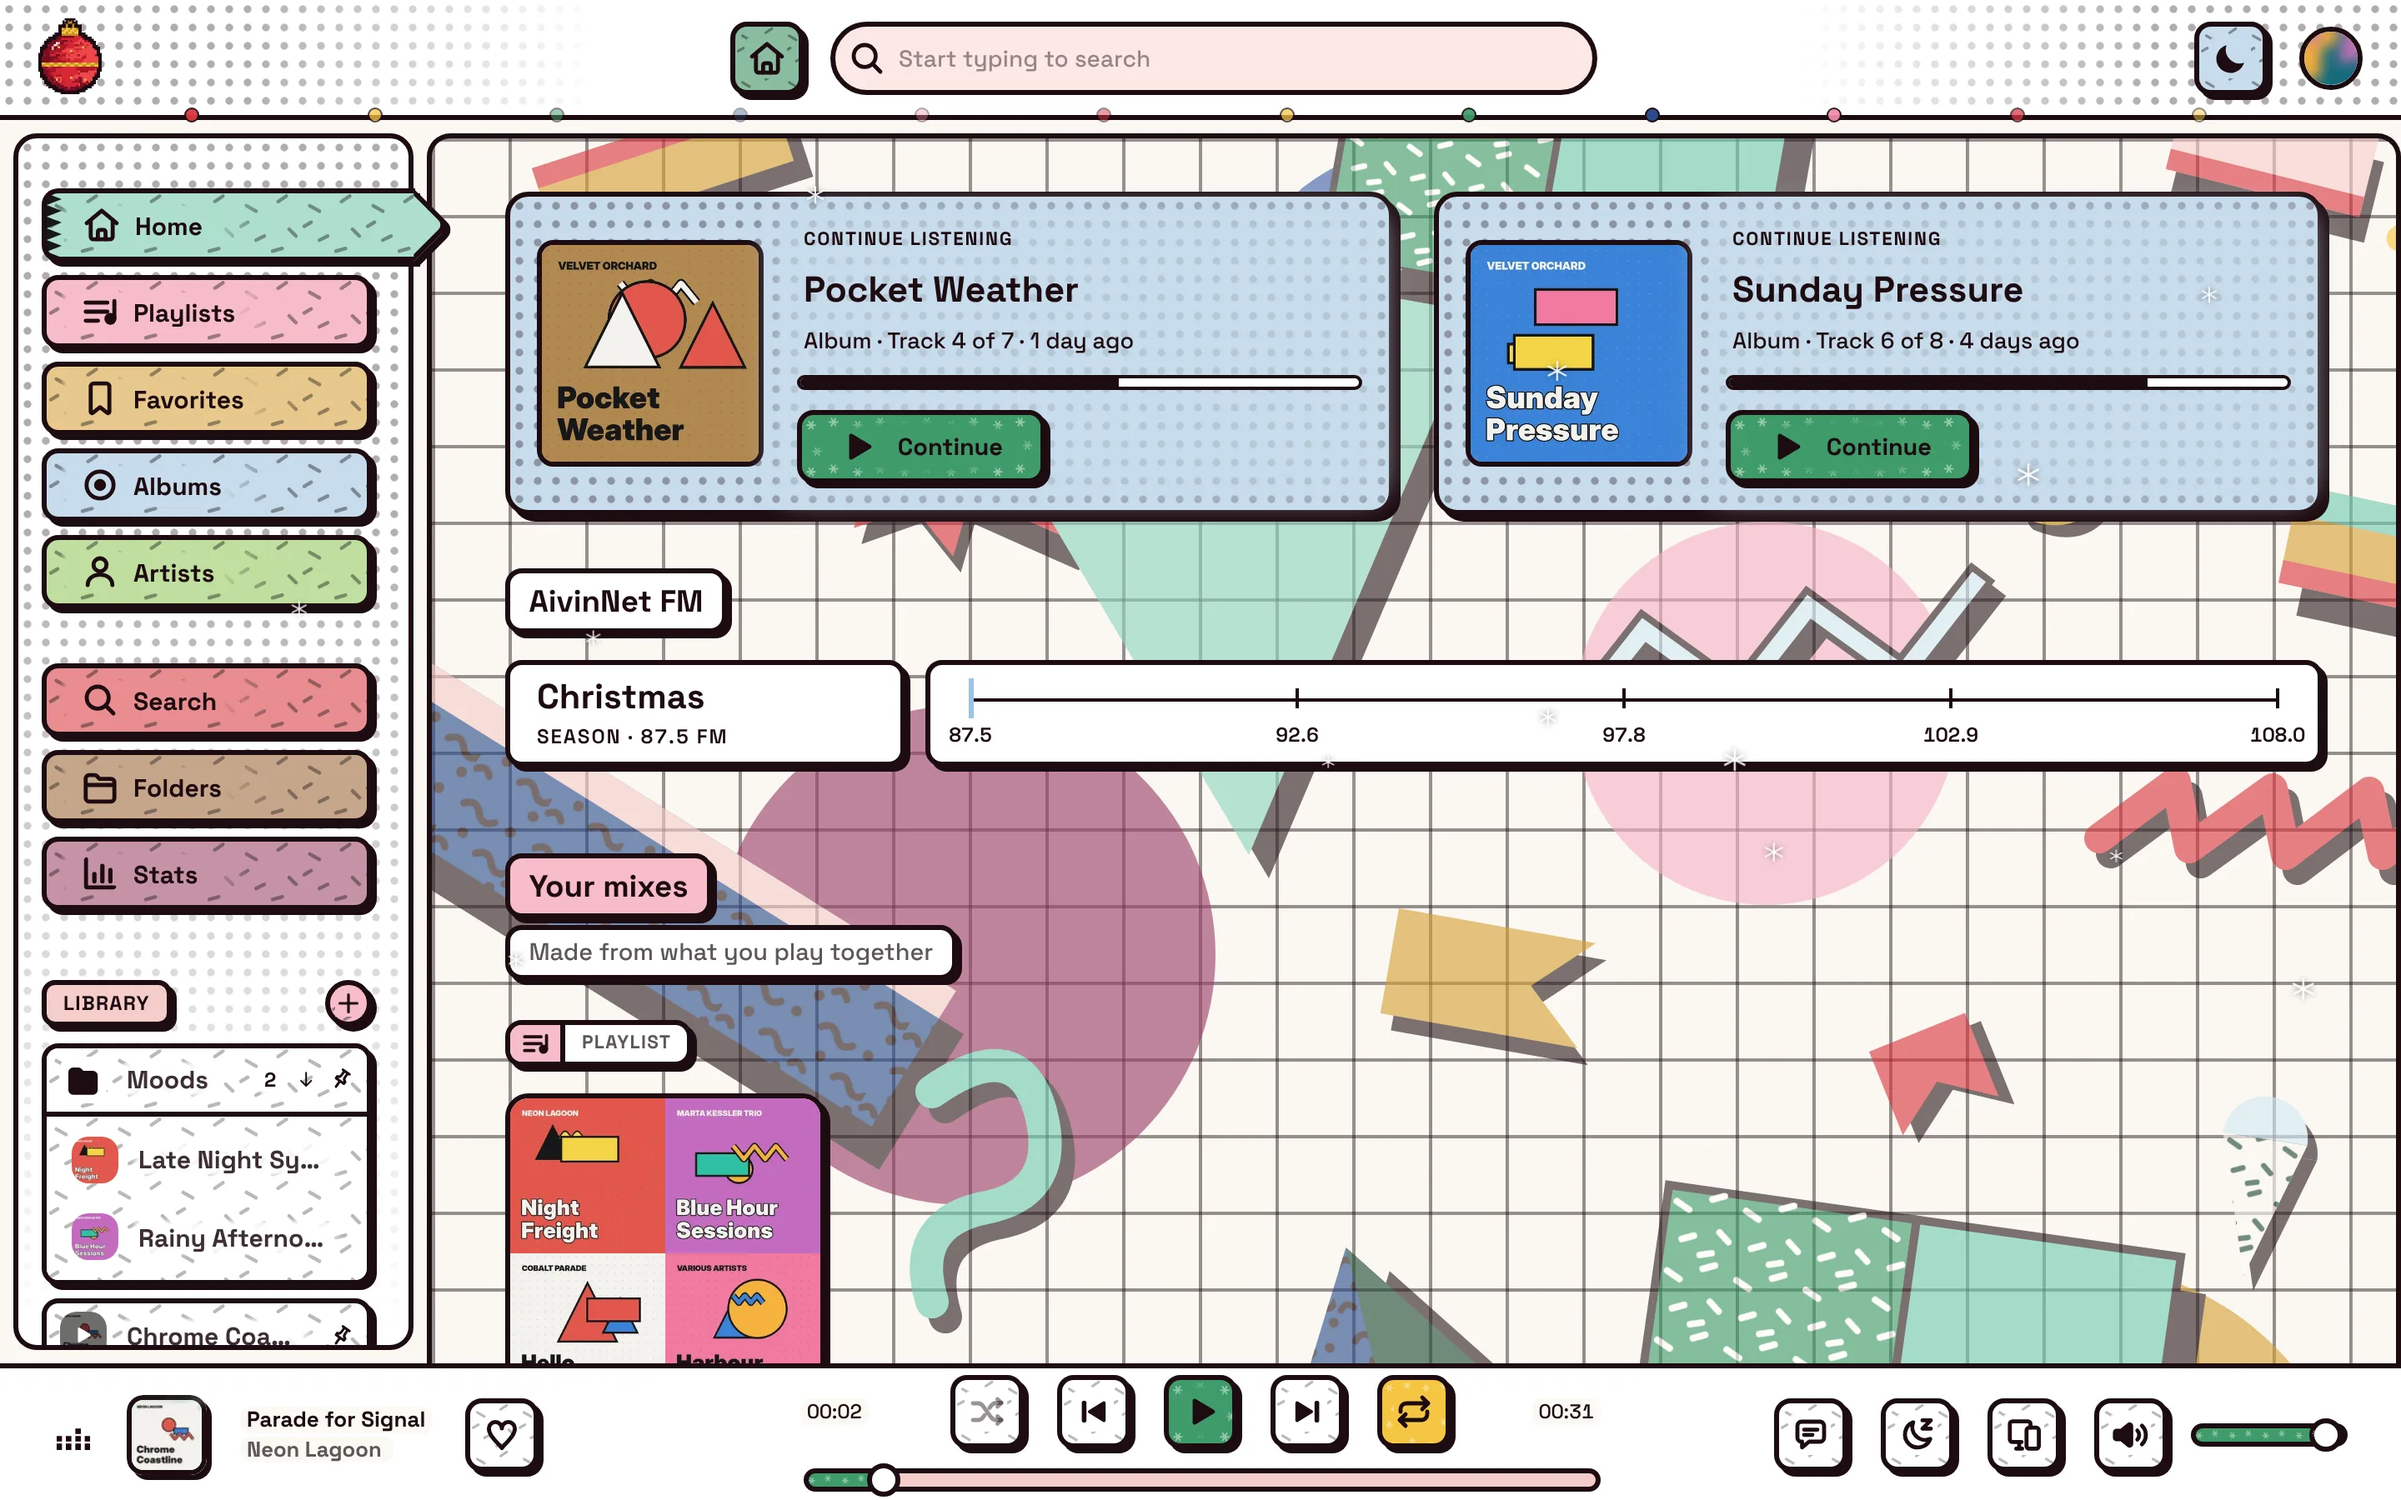
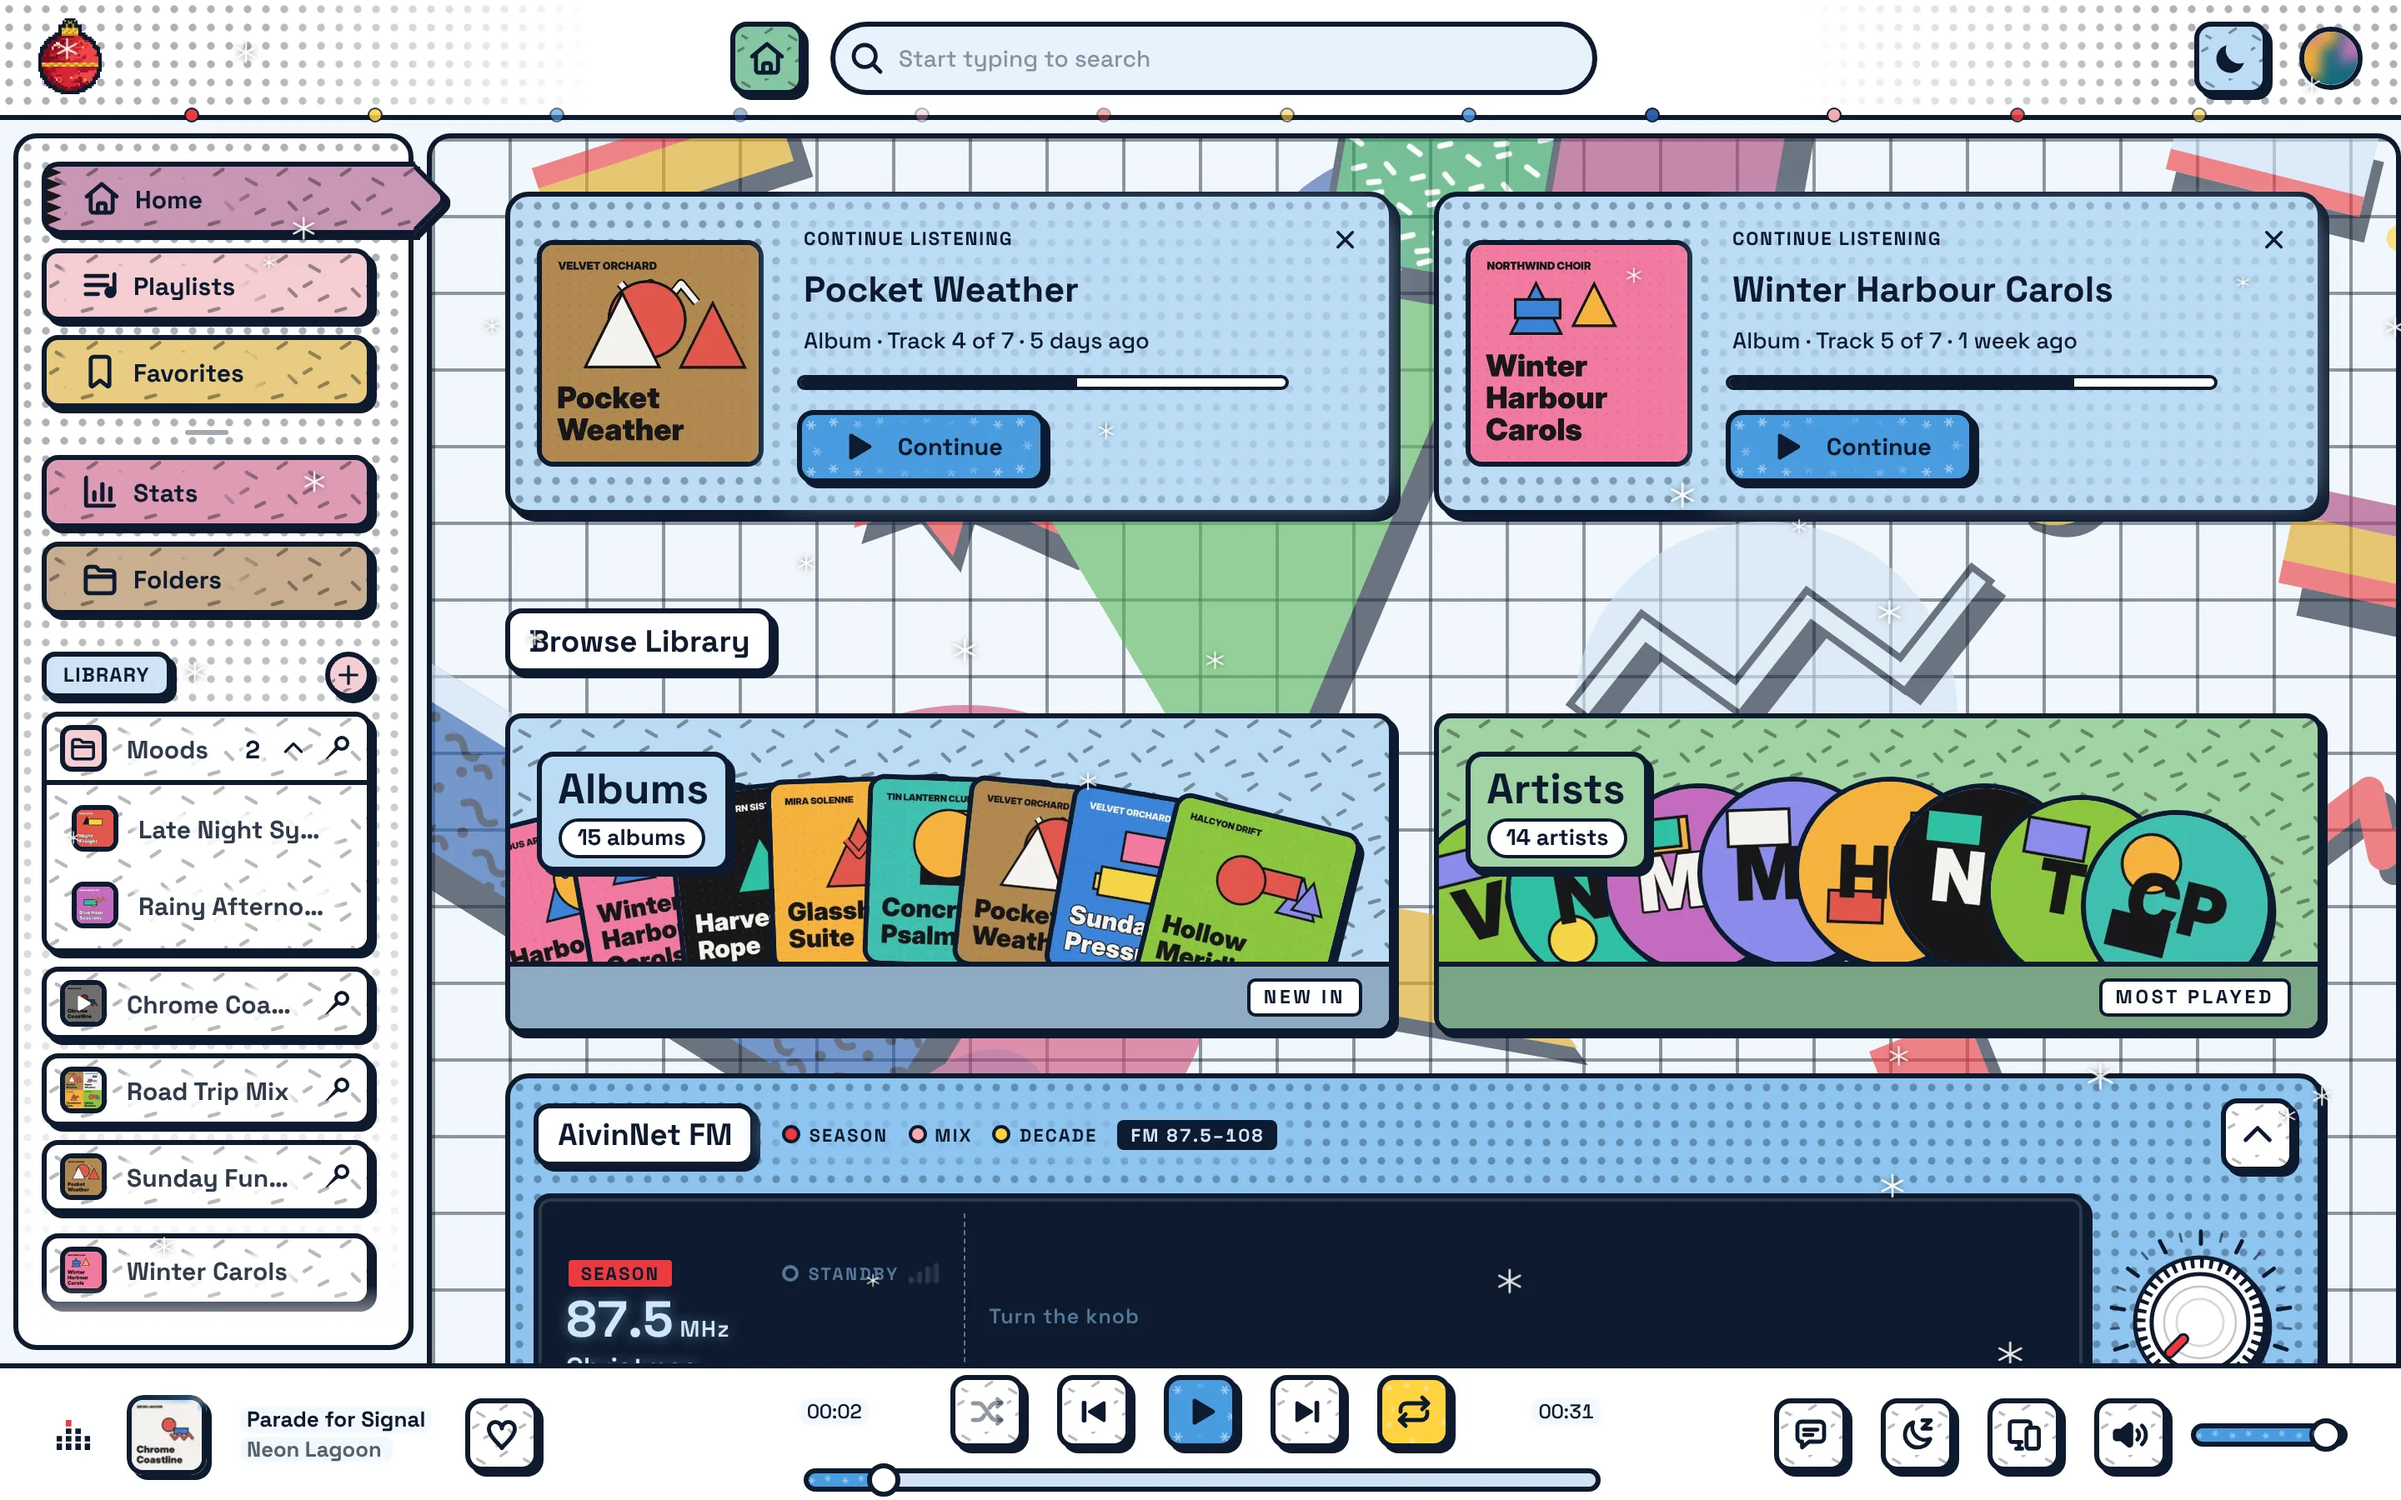
docs: fresh screenshots, README up to date, and a release rule to keep it so (#843)
* chore(demo): seed track ratings, show AivinNet FM, fresh screenshots

The demo seed rates 25 tracks (POST /ratings/set) so "Your top rated" and the
stars have something to show. The screenshot script switches AivinNet FM on
(open on the desktop, the strip on the phone), since it is now off until
switched on. Screenshots, home.png and the demo clip are retaken on the
current master: the slimmer sidebar, Browse Library as record crates, the new
radio, the queue sections.

Claude-Session: https://claude.ai/code/session_01MjKC1nG7y3H6QY8vhRBa3n

* docs: README describes ratings, the radio switch and the queue; releases keep it current

What it does now names ratings (Your top rated, mixes and stations by stars,
the My rating rule, ratings in files), the radio as a switch under
Settings -> Home, Browse Library as record crates, find in long lists, the
queue sections, word-by-word lyrics and Light/Dark/Auto.

The release rule now says: README description up to date with every release,
screenshots only for larger visible changes (user, 2026-11-17).

Claude-Session: https://claude.ai/code/session_01MjKC1nG7y3H6QY8vhRBa3n

---------

diff --git a/scripts/demo/screenshots.js b/scripts/demo/screenshots.js
@@ -43,6 +43,19 @@ async function open(browser, { phone = false, dark = false, date = PLAIN_DATE } 
     })
     const login = await context.request.post(`${BASE}/auth/login`, { data: { username: 'admin', password: PASSWORD } })
     if (!login.ok()) throw new Error(`login failed: ${login.status()}`)
+    // AivinNet FM is off until switched on (Settings → Home, per device); the shots show it,
+    // open on the desktop and folded to its strip on the phone. The settings store is
+    // persisted under "settings" and hydrated by $patch, so these two keys are enough.
+    await context.addInitScript((open) => {
+        try {
+            const stored = JSON.parse(localStorage.getItem('settings') || '{}')
+            if (stored.show_radio === undefined) {
+                localStorage.setItem('settings', JSON.stringify({ ...stored, show_radio: true, radio_open: open }))
+            }
+        } catch {
+            // no storage: the shots go without the radio
+        }
+    }, !phone)
     const page = await context.newPage()
     await page.clock.setFixedTime(new Date(date))
     return { context, page }

diff --git a/scripts/demo/seed.py b/scripts/demo/seed.py
@@ -11,7 +11,8 @@ What it does, in order:
   2. adds the music folder as a root dir (the server scans it) and waits for the albums;
   3. creates playlists (one inside a folder), pins 2 playlists and 1 album, favourites
      10 tracks, 3 albums and 2 artists;
-  4. writes ~10 weeks of plays through the real `POST /logger/track/log` endpoint, plus
+  4. rates 25 tracks 1 to 5 stars through the real `POST /ratings/set` endpoint;
+  5. writes ~10 weeks of plays through the real `POST /logger/track/log` endpoint, plus
      a few plays on this calendar day one and two years back for "On this day".
 
 Home rows are computed at server start and by the hourly crons. After seeding, restart
@@ -41,6 +42,10 @@ WEEKS = 10
 ALBUM_COUNT = 15  # 14 albums plus the compilation, see make_library.py
 PLAY_PROBABILITY = 0.75
 PLAY_TRACKS = (3, 7)
+# Never played (see build_history): not rated either, so the demo keeps it unheard.
+UNPLAYED_ALBUMS = {"Small Hours Folk"}
+# (stars, tracks): the 5- and 4-star songs feed "Your top rated" (#777).
+RATING_PLAN = ((5, 12), (4, 8), (3, 3), (1, 2))
 
 
 class Api:
@@ -234,6 +239,25 @@ def seed_favorites(api: Api, albums: list[dict], songs: list[Song]) -> list[Song
     return picks
 
 
+def seed_ratings(api: Api, songs: list[Song], rng: random.Random) -> int:
+    """Rate 25 tracks, 12 of them 5 stars, 8 at 4, 3 at 3 and 2 at 1.
+
+    The pool leaves out the never-played album, and the rest are albums that the history
+    below plays, so the ratings sit on songs the user has heard. The tracks are drawn from
+    the seeded generator, so the same library gives the same ratings.
+    """
+    pool = [s for s in songs if s.album not in UNPLAYED_ALBUMS]
+    chosen = rng.sample(pool, sum(count for _, count in RATING_PLAN))
+    done = 0
+    start = 0
+    for stars, count in RATING_PLAN:
+        for s in chosen[start : start + count]:
+            api.must("POST", "/ratings/set", {"trackhash": s.trackhash, "rating": stars})
+            done += 1
+        start += count
+    return done
+
+
 def find_album_artists(albums: list[dict], name: str) -> list[dict]:
     return [a for album in albums for a in album.get("albumartists", []) if a["name"] == name][:1]
 
@@ -250,7 +274,7 @@ def build_history(
       - Some sessions mix albums of different artists: Because you listened, Your mixes.
       - The last 7 days repeat one album's tracks: On repeat.
     """
-    unplayed = {"Small Hours Folk"}
+    unplayed = UNPLAYED_ALBUMS
     quiet = {"Hollow Meridian", "Glasshouse Suite"}
     forgotten = {s.trackhash for s in favorites[:3]}
 
@@ -399,6 +423,7 @@ def main() -> int:
     print(f"playlists: {len(playlists)} (folder 'Moods' holds 2), pinned 2 playlists + 1 album")
     favorites = seed_favorites(api, albums, songs)
     print(f"favourites: {len(favorites)} tracks, 3 albums, 2 artists")
+    print(f"ratings: {seed_ratings(api, songs, rng)} set")
 
     pictures = Path(args.artist_images) if args.artist_images else Path(args.music.rstrip("/") + "-artists")
     print(f"artist pictures: {seed_artist_images(api, pictures)} uploaded")

diff --git a/README.md b/README.md
@@ -13,7 +13,7 @@ curl -fsSL https://raw.githubusercontent.com/vwellenberg/AivinNet/master/install
 
 One line on Linux; Docker and the other ways are under [Other install paths](#other-install-paths).
 
-![AivinNet Home: continue listening, AivinNet FM and your mixes](client/docs/screenshots/home.webp)
+![AivinNet Home: continue listening, your library in record crates, and AivinNet FM](client/docs/screenshots/home.webp)
 
 ## What it looks like
 
@@ -59,31 +59,47 @@ covers, synthetic audio. `scripts/demo/` rebuilds it and takes the pictures.</su
 
 **Home, from your own listening**
 - *Continue listening*, *Your mixes* (cut from your own listening sessions),
-  *Because you listened to …*, *On repeat*, *Never played*, *Deep cuts*,
-  *Forgotten favorites*, *Almost complete*, *On this day* and more. Each user
-  picks which rows appear and in what order.
-- **AivinNet FM**: a dial on Home that tunes between your mixes, genres and
-  decades, plus seasonal stations (Christmas, a New Year's Eve countdown).
+  *Because you listened to …*, *On repeat*, *Your top rated*, *Never played*,
+  *Deep cuts*, *Forgotten favorites*, *Almost complete*, *On this day* and more.
+  Each user picks which rows appear and in what order.
+- **Browse Library** sits under Continue listening as two record crates.
+- **AivinNet FM** is a radio you switch on under Settings → Home (per device): a
+  dial that tunes between your mixes, genres, decades and seasonal stations
+  (Christmas, a New Year's Eve countdown).
 - A recap card on Mondays and on the 1st, an Advent calendar in December, and
-  **Rewind**, your year in music, which you can save as a story image.
+  **Rewind**, your year in music, which you can save as a story image. Seven
+  clicks on the logo hand you a find from your own library.
+
+**Ratings**
+- Rate tracks from 1 to 5 stars: in Now Playing, from a song's menu, or by
+  tapping the star in a song list. Each person rates for themselves.
+- Your 4- and 5-star songs feed *Your top rated*. Mixes and stations play the
+  songs you rated high more often, and never pick the ones you rated 1.
+- A smart playlist rule, *My rating*, fills itself from your stars.
+- Optionally, an admin can write ratings into the music files and import the
+  ratings other players wrote there. Off by default.
 
 **Playlists and favourites**
 - Playlists with covers, pinned to the sidebar and filed into folders; music
   folders and albums can be pinned too.
 - **Smart playlists** that fill themselves from rules (genre, artist, year, plays,
-  date added, last played, favourite).
+  date added, last played, favourite, rating).
 - Favourites for tracks, albums and artists, each with a page of its own.
+- Find in long lists (playlists, albums, folders, favourites, an artist's
+  all-tracks page): a search over the whole list, opened with Cmd/Ctrl+F.
 
 **Playback**
 - Gapless, with optional silence skipping and a crossfade you set yourself.
 - **ReplayGain** to even out the volume, a **sleep timer** that fades out, and a
   queue you rearrange by dragging (and undo a removal from).
-- Synced lyrics from `.lrc` files or embedded tags; the optional lyrics finder
-  can fetch missing ones.
+- The queue shows Played, Now playing and Up next.
+- Synced lyrics from `.lrc` files or embedded tags. The playing line lights up
+  word by word, from enhanced LRC word timing where the file has it and spread
+  over the line otherwise. The optional lyrics finder can fetch missing ones.
 
 **Stats**
 - Top artists, albums and tracks per day, week, month, year or all time, with
-  trends against the period before.
+  trends against the period before, and a skip card for the songs you skip.
 - A listening calendar and clock, skip rate, records, devices, formats, and how
   much of your library you have explored.
 
@@ -97,7 +113,8 @@ covers, synthetic audio. `scripts/demo/` rebuilds it and takes the pictures.</su
 
 **Looks**
 - Memphis in light and dark, with four colour schemes (Memphis, Lagune,
-  Terrakotta, Eierschale), or a calm *Boring* look.
+  Terrakotta, Eierschale), or a calm *Boring* look. A long-press on the theme
+  switch gives Light · Dark · Auto.
 
 <details>
 <summary>For tinkerers</summary>

diff --git a/.claude/rules/packaging-release.md b/.claude/rules/packaging-release.md
@@ -20,7 +20,12 @@ Default, `--system` für systemweit). Flags: `--system`, `--no-autostart`, `--po
 
 **Release ziehen:** Workflow `Release` (`.github/workflows/build.yml`, `workflow_dispatch`) baut
 Client aus `client/`, Wheels, AppImages (x86_64 + aarch64), Einzeldatei-Binaries und
-`SHA256SUMS`. Vorher `.github/changelog.md` anpassen — das ist der Release-Body. Für Testläufe
+`SHA256SUMS`. Vorher `.github/changelog.md` anpassen — das ist der Release-Body. Außerdem die
+README-Beschreibung auf den Stand des Releases bringen („What it does“ und der Alt-Text des
+Hero-Bilds), `appimage/aivinnet.appdata.xml` nur, wenn seine Beschreibung betroffen ist.
+Screenshots (`client/docs/screenshots/`, Rezept in `scripts/demo/README.md`, Abschnitt „Screenshots
+and the demo clip“) werden nur bei größeren sichtbaren Änderungen neu gemacht; dann auch
+`home.png` für die AppStream-Metadaten. Für Testläufe
 `prerelease=true` + `is_latest=false` setzen und mit `install.sh --version <tag>` installieren
 (`/releases/latest` überspringt Prereleases; **Drafts** sind über die API gar nicht sichtbar).
 

diff --git a/scripts/demo/README.md b/scripts/demo/README.md
@@ -53,7 +53,7 @@ uv run --frozen python scripts/demo/seed.py \
 
 The script adds the music folder as a root dir and waits for the scan. It then creates
 5 playlists (two of them in the folder "Moods"), pins 2 playlists and 1 album, marks 10 tracks,
-3 albums and 2 artists as favourites, uploads the artist pictures, and records about 590 plays from the last 10 weeks, plus
+3 albums and 2 artists as favourites, rates 25 tracks, uploads the artist pictures, and records about 590 plays from the last 10 weeks, plus
 a few plays on this date one and two years back.
 
 `--today` anchors the history. Leave it out to anchor on the current date. A fixed date gives the

diff --git a/CLAUDE.md b/CLAUDE.md
@@ -341,7 +341,8 @@ Bereichsregeln laden sich selbst, sobald eine passende Datei gelesen wird:
 
 Freunde installieren per **AppImage** (`install.sh` im Repo-Root), gebaut vom Workflow `Release`
 (`.github/workflows/build.yml`, `workflow_dispatch`). Vorher `.github/changelog.md` anpassen —
-das ist der Release-Body.
+das ist der Release-Body; dazu die README-Beschreibung
+(„What it does“, Hero-Alt-Text) auf den Stand bringen, siehe `.claude/rules/packaging-release.md`.
 
 ⚠ Dort lauern mehrere Fallen, die schon zugeschlagen haben — zuletzt der AppDir-Name, an dem
 beide AppImage-Jobs des ersten Release-Versuchs starben. Details:
